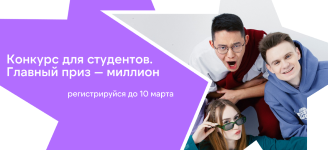
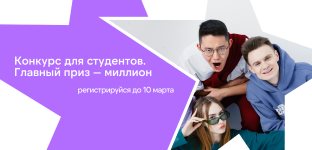
баннер конкурса

diff --git a/Client/src/app/css/competition.scss b/Client/src/app/css/competition.scss
@@ -25,7 +25,7 @@
             padding-top: 42.8%;
 
             @media (max-width: 1024px) {
-                padding-top: 48%;
+                padding-top: 44%;
             }
         }
 
